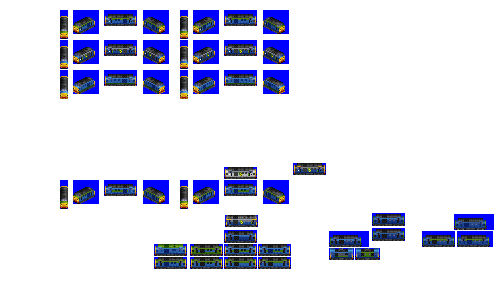
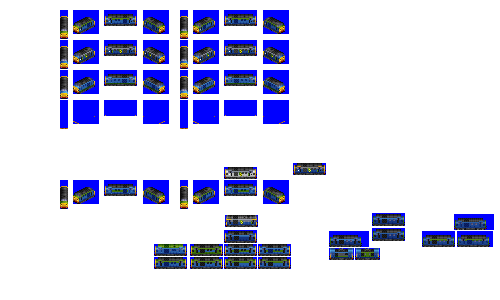
Codechange: consolidate engine extra sprite layer handling to a method

Changed region(s): [[0.12, 0.33, 0.6, 0.45]]

diff --git a/src/train.py b/src/train.py
@@ -789,6 +789,20 @@ class Consist(object):
             return 64
 
     @property
+    def engine_extra_sprite_layers_with_layer_names(self):
+        result = []
+        counter = 0
+        # add a layer for decor as needed, note this is not done in the gestalt as it's more convenient to treat separarely
+        if self.decor_spriterow_num is not None:
+            counter = counter + 1
+            result.append((counter, 'decor'))
+        # add a layer for pantographs as needed, note this is not done in the gestalt as it's more convenient to treat separarely
+        if self.pantograph_type is not None:
+            counter = counter + 1
+            result.append((counter, 'pantographs'))
+        return result
+
+    @property
     def num_sprite_layers(self):
         # always at least one layer
         result = 1

diff --git a/src/vehicles/slug.py b/src/vehicles/slug.py
@@ -25,6 +25,7 @@ def main(roster_id):
             ("COLOUR_YELLOW", "COLOUR_YELLOW"),
         ],
         caboose_family="railfreight_2",
+        decor_spriterow_num=3,
         sprites_complete=True,
         sprites_additional_liveries_needed=True, # banger blue? red stripe? Teeside steelmaster?
     )
